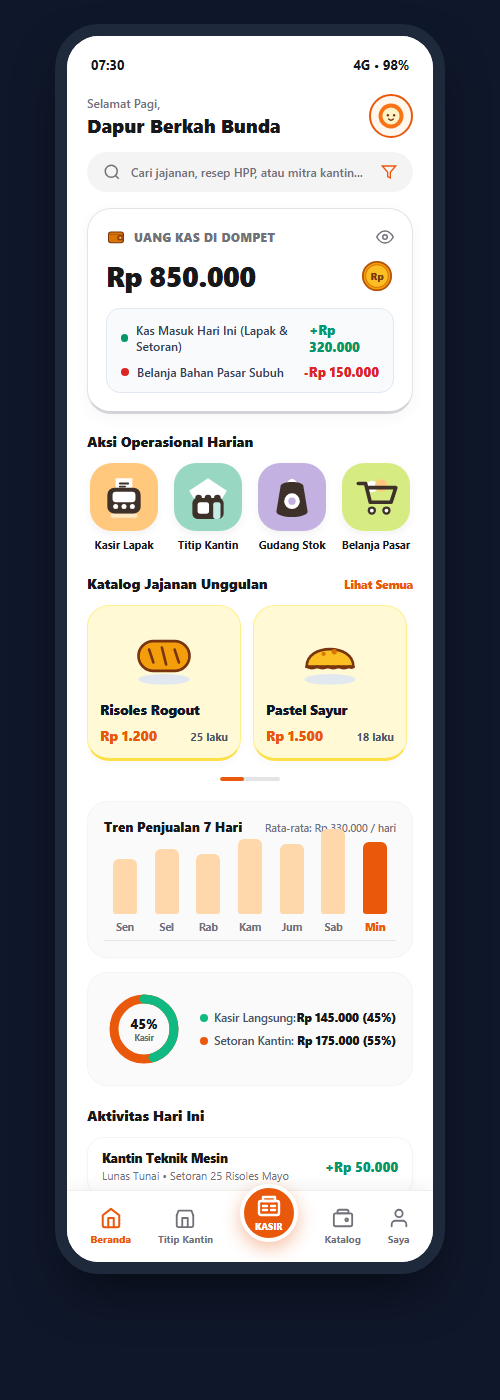
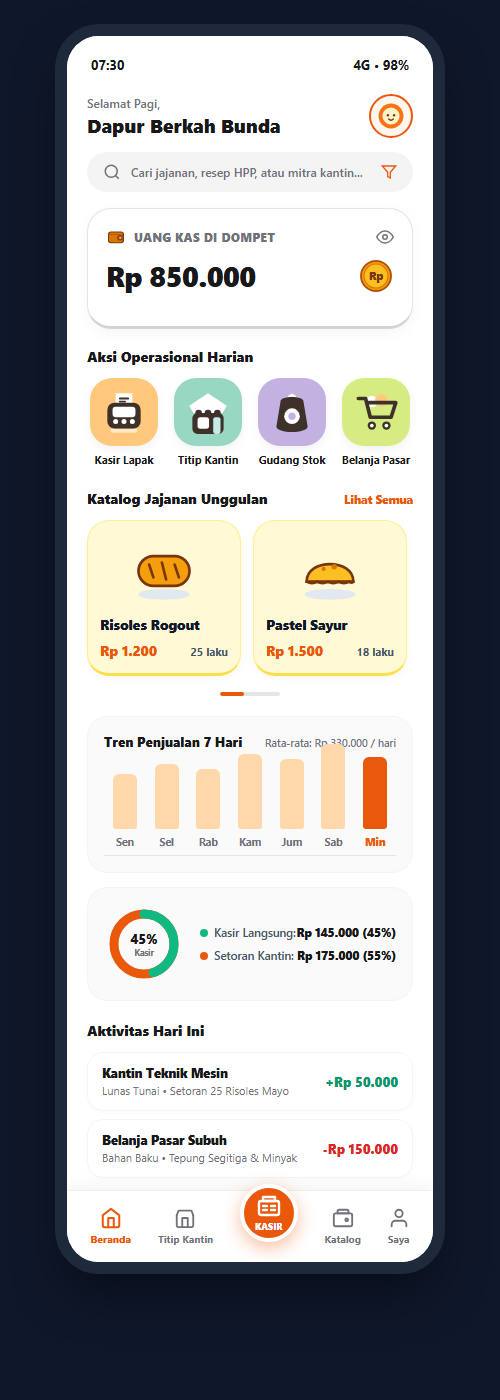
feat(dashboard): streamline wallet card by removing repetitive cashflow sub-box, focusing on primary balance and golden coin

Changed region(s): [[0.15, 0.215, 0.84, 0.86], [0.72, 0.1843, 0.78, 0.215]]

diff --git a/src/screens/DashboardScreen.js b/src/screens/DashboardScreen.js
@@ -69,15 +69,15 @@ export const DashboardScreen = ({ navigation }) => {
           </TouchableOpacity>
         </View>
 
-        {/* 3. HERO CASH WALLET CARD BERBOBOT NYATA (CATATAN KAS BERSATU, ZERO AI-SLOP PILLS) */}
+        {/* 3. HERO CASH WALLET CARD RAMPING & ELEGAN (TANPA SUB-BOX KAS/BELANJA) */}
         <View style={styles.heroWalletCard}>
           <View style={styles.walletHeaderRow}>
             <View style={styles.walletLabelBox}>
-              <AssetVisual name="wallet_purse" size={26} />
+              <AssetVisual name="wallet_purse" size={24} />
               <Text style={styles.walletLabelText}>Uang Kas di Dompet</Text>
             </View>
             <TouchableOpacity onPress={() => setHideBalance(!hideBalance)} style={styles.eyeBtn}>
-              <Svg width={18} height={18} viewBox="0 0 24 24" fill="none" stroke="#78350F" strokeWidth={2}>
+              <Svg width={18} height={18} viewBox="0 0 24 24" fill="none" stroke="#71717A" strokeWidth={2}>
                 <Path d="M1 12s4-8 11-8 11 8 11 8-4 8-11 8-11-8-11-8z" />
                 <Circle cx="12" cy="12" r="3" />
               </Svg>
@@ -90,20 +90,6 @@ export const DashboardScreen = ({ navigation }) => {
             </Text>
             <View style={styles.coinBadge}>
               <AssetVisual name="coin_gold" size={32} />
-            </View>
-          </View>
-
-          {/* ARUS KAS MENYATU BERSIH (CATATAN KAS LAPANGAN, BUKAN PILLS AI SLOP) */}
-          <View style={styles.cashFlowLedgerWrap}>
-            <View style={styles.ledgerRow}>
-              <View style={styles.ledgerDotGreen} />
-              <Text style={styles.ledgerLabel}>Kas Masuk Hari Ini:</Text>
-              <Text style={styles.ledgerValGreen}>+Rp 320.000</Text>
-            </View>
-            <View style={styles.ledgerRow}>
-              <View style={styles.ledgerDotRed} />
-              <Text style={styles.ledgerLabel}>Belanja Pasar Subuh:</Text>
-              <Text style={styles.ledgerValRed}>-Rp 150.000</Text>
             </View>
           </View>
         </View>
@@ -364,11 +350,12 @@ const styles = StyleSheet.create({
   filterIconBtn: {
     padding: 4,
   },
-  // 3. HERO KARTU KAS ASLI (PUTIH SOLID BERGARIS TEGAS SEPERTI DI HP FISIK USER)
+  // 3. HERO KARTU KAS ASLI (PUTIH SOLID BERGARIS TEGAS & RAMPING ELEGAN)
   heroWalletCard: {
     backgroundColor: '#FFFFFF',
-    borderRadius: 24,
-    padding: 18,
+    borderRadius: 22,
+    paddingVertical: 16,
+    paddingHorizontal: 18,
     borderWidth: 1.5,
     borderColor: '#E4E4E7',
     borderBottomWidth: 3.5,
@@ -376,9 +363,9 @@ const styles = StyleSheet.create({
     elevation: 3,
     shadowColor: '#000000',
     shadowOffset: { width: 0, height: 3 },
-    shadowOpacity: 0.05,
+    shadowOpacity: 0.04,
     shadowRadius: 8,
-    marginBottom: 16,
+    marginBottom: 18,
   },
   walletHeaderRow: {
     flexDirection: 'row',
@@ -404,13 +391,14 @@ const styles = StyleSheet.create({
     flexDirection: 'row',
     justifyContent: 'space-between',
     alignItems: 'center',
-    marginVertical: 10,
+    marginTop: 8,
+    marginBottom: 2,
   },
   walletAmountText: {
-    fontSize: 28,
+    fontSize: 30,
     fontWeight: '900',
     color: '#18181B',
-    letterSpacing: -0.5,
+    letterSpacing: -0.6,
   },
   coinBadge: {
     width: 38,

diff --git a/preview_dashboard_harmonized.html b/preview_dashboard_harmonized.html
@@ -404,7 +404,7 @@
       </svg>
     </div>
 
-    <!-- 3. Hero Uang Kas Di Dompet (Putih Solid Bergaris Tegas) -->
+    <!-- 3. Hero Uang Kas Di Dompet (Putih Solid Ramping & Elegan) -->
     <div class="hero-wallet-card">
       <div class="wallet-header">
         <div class="wallet-tag">
@@ -425,29 +425,11 @@
       <div class="wallet-main-row">
         <div class="wallet-balance-big">Rp 850.000</div>
         <!-- Koin Emas Asli yang Pernah Dibuat -->
-        <svg width="34" height="34" viewBox="0 0 48 48">
+        <svg width="36" height="36" viewBox="0 0 48 48">
           <circle cx="24" cy="24" r="20" fill="#F59E0B" stroke="#B45309" stroke-width="2.5"/>
           <circle cx="24" cy="24" r="16" fill="#FBBF24" stroke="#D97706" stroke-width="1.5"/>
           <text x="24" y="29" font-size="14" font-weight="900" fill="#78350F" text-anchor="middle">Rp</text>
         </svg>
-      </div>
-
-      <!-- Arus Kas Menyatu Konsisten (Kontras Tinggi) -->
-      <div class="cash-flow-ledger">
-        <div class="flow-row">
-          <div class="flow-left">
-            <div class="dot-in"></div>
-            <span>Kas Masuk Hari Ini (Lapak & Setoran)</span>
-          </div>
-          <span class="val-in">+Rp 320.000</span>
-        </div>
-        <div class="flow-row">
-          <div class="flow-left">
-            <div class="dot-out"></div>
-            <span>Belanja Bahan Pasar Subuh</span>
-          </div>
-          <span class="val-out">-Rp 150.000</span>
-        </div>
       </div>
     </div>
 

diff --git a/render_dashboard_harmonized.py b/render_dashboard_harmonized.py
@@ -411,7 +411,7 @@ html_content = """<!DOCTYPE html>
       </svg>
     </div>
 
-    <!-- 3. Hero Uang Kas Di Dompet (Putih Solid Bergaris Tegas) -->
+    <!-- 3. Hero Uang Kas Di Dompet (Putih Solid Ramping & Elegan) -->
     <div class="hero-wallet-card">
       <div class="wallet-header">
         <div class="wallet-tag">
@@ -432,29 +432,11 @@ html_content = """<!DOCTYPE html>
       <div class="wallet-main-row">
         <div class="wallet-balance-big">Rp 850.000</div>
         <!-- Koin Emas Asli yang Pernah Dibuat -->
-        <svg width="34" height="34" viewBox="0 0 48 48">
+        <svg width="36" height="36" viewBox="0 0 48 48">
           <circle cx="24" cy="24" r="20" fill="#F59E0B" stroke="#B45309" stroke-width="2.5"/>
           <circle cx="24" cy="24" r="16" fill="#FBBF24" stroke="#D97706" stroke-width="1.5"/>
           <text x="24" y="29" font-size="14" font-weight="900" fill="#78350F" text-anchor="middle">Rp</text>
         </svg>
-      </div>
-
-      <!-- Arus Kas Menyatu Konsisten (Kontras Tinggi) -->
-      <div class="cash-flow-ledger">
-        <div class="flow-row">
-          <div class="flow-left">
-            <div class="dot-in"></div>
-            <span>Kas Masuk Hari Ini (Lapak & Setoran)</span>
-          </div>
-          <span class="val-in">+Rp 320.000</span>
-        </div>
-        <div class="flow-row">
-          <div class="flow-left">
-            <div class="dot-out"></div>
-            <span>Belanja Bahan Pasar Subuh</span>
-          </div>
-          <span class="val-out">-Rp 150.000</span>
-        </div>
       </div>
     </div>
 
